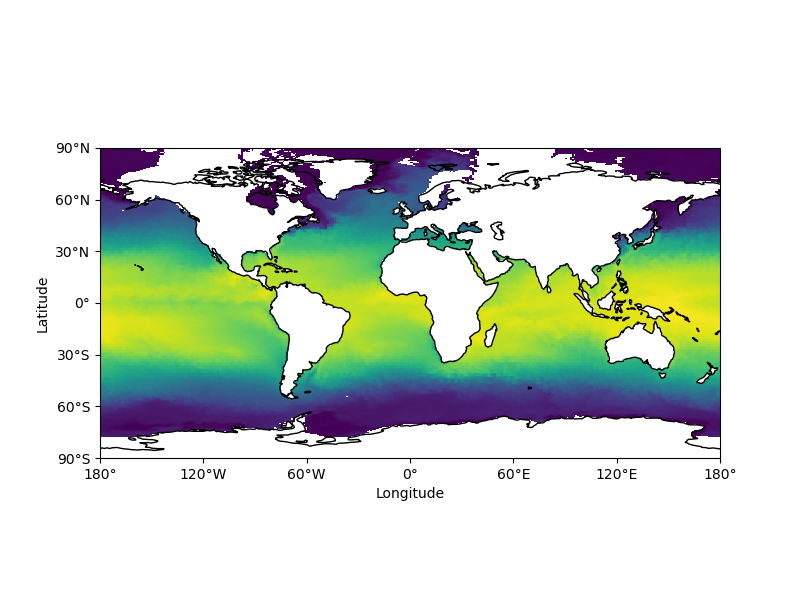
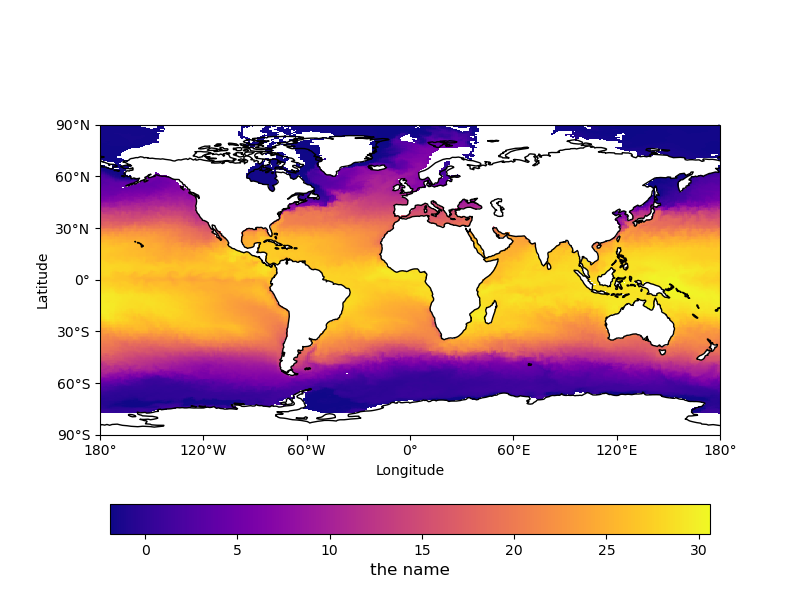
Colors to map?

diff --git a/testSSTPlot.py b/testSSTPlot.py
@@ -22,6 +22,7 @@ def main():
     
     #Create a contour plot of the SST data and plot it on a figure
     SST_map = MapGridded(SST2d.coords["yh"], SST2d.coords["xh"], SST2d)
+    SST_map.cmap = "plasma"
 
     plot = CreatePlot()
     plot.plot_layers = [SST_map]
@@ -30,6 +31,7 @@ def main():
     plot.add_xlabel("Longitude")
     plot.add_ylabel("Latitude")
     plot.add_map_features(["coastline"])
+    plot.add_colorbar(label = "the name", fontsize = 12, extend = "neither")
 
     fig = CreateFigure()
     fig.plot_list = [plot]
